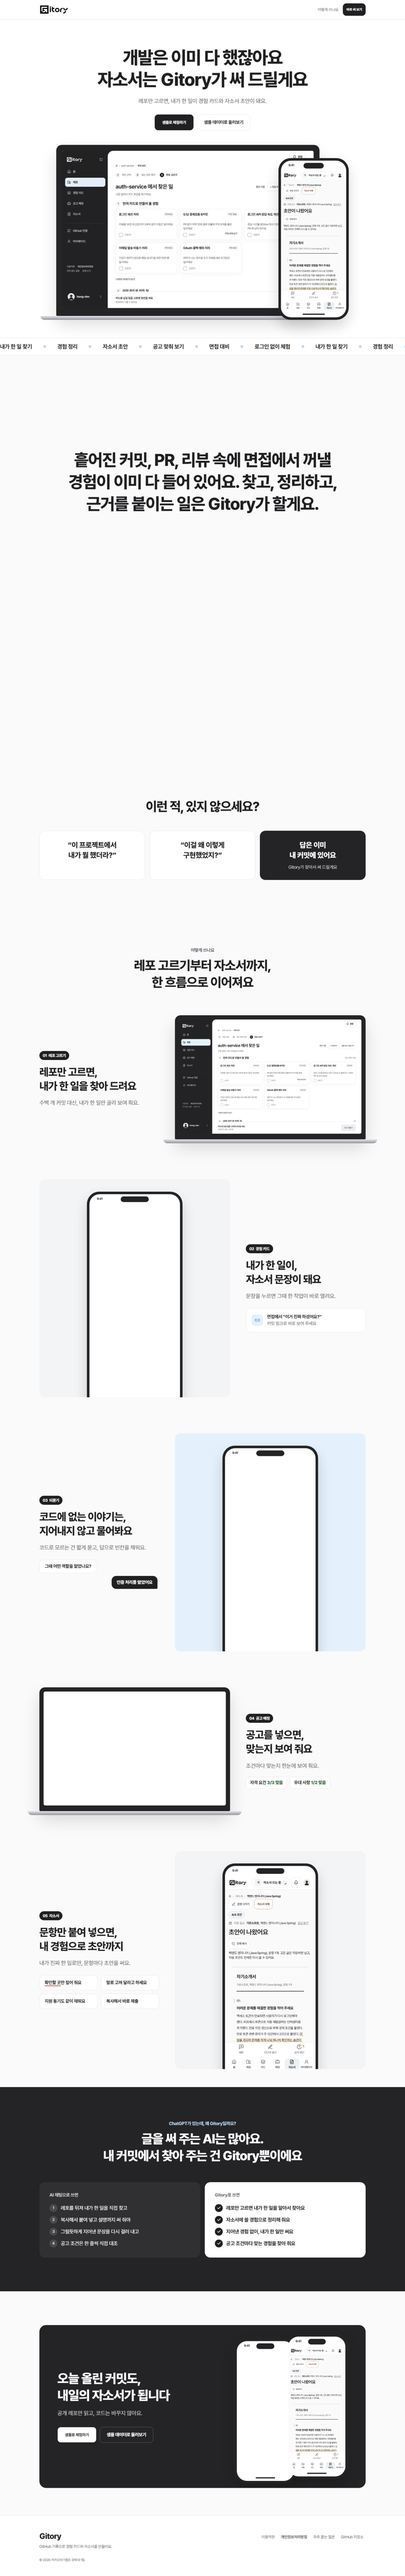
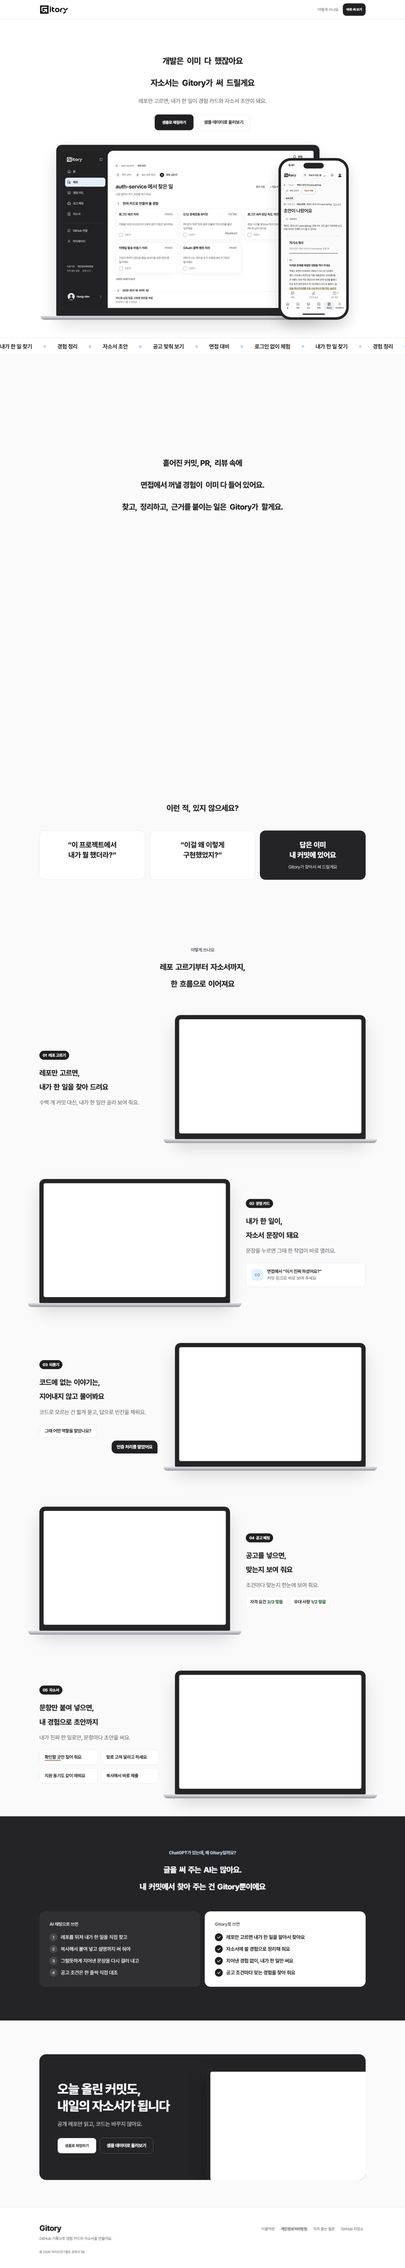
fix(frontend): 채워지는 문장을 세 줄로 나누고 01~05와 시작 권유를 PC 화면으로 보여 줌
- 채워지는 문장은 PC 에서 세 줄로 고정하고, 구절이 차례로 채워지는 효과는 그대로 둠
- PC 우선 서비스라 경험 카드, 되묻기, 자소서 단계와 시작 권유를 휴대폰 대신 PC 화면(노트북 틀)으로 바꿈
- 시작 권유는 겹친 폰 두 대 대신 오른쪽 아래로 걸친 PC 홈 화면, 글 칸을 넓혀 제목이 세 줄로 꺾이지 않게 함
- 쓰지 않는 휴대폰 캡처 3장 삭제, PC 되묻기와 홈 캡처 추가

diff --git a/frontend/src/features/auth/landing/Sections.tsx b/frontend/src/features/auth/landing/Sections.tsx
@@ -2,7 +2,7 @@ import type { ReactNode } from 'react';
 import { Link } from 'react-router-dom';
 import { Check, Link2 } from 'lucide-react';
 import { LEGAL } from '@/lib/legal';
-import { Laptop, Phone, Split } from './Shots';
+import { Laptop, Split } from './Shots';
 
 const FLOW = ['내가 한 일 찾기', '경험 정리', '자소서 초안', '공고 맞춰 보기', '면접 대비', '로그인 없이 체험'];
 
@@ -20,7 +20,8 @@ export function FlowStrip() {
   );
 }
 
-const INK = ['흩어진 커밋, PR, 리뷰 속에', '면접에서 꺼낼 경험이', '이미 다 들어 있어요.', '찾고,', '정리하고,', '근거를 붙이는 일은', 'Gitory가', '할게요.'];
+/** 세 줄로 나눠 보여 주고, 줄 안의 구절이 스크롤에 맞춰 차례로 채워진다 */
+const INK = [['흩어진 커밋, PR,', '리뷰 속에'], ['면접에서 꺼낼 경험이', '이미 다 들어 있어요.'], ['찾고,', '정리하고,', '근거를 붙이는 일은', 'Gitory가', '할게요.']];
 
 /** 스크롤하면 회색 글자가 한 구절씩 검게 채워지는 문장 */
 export function InkStatement() {
@@ -28,7 +29,11 @@ export function InkStatement() {
     <section className="lp-ink" data-ink="">
       <div className="lp-ink__stage">
         <p className="lp-ink__text">
-          {INK.map((t, i) => <span key={i}>{i > 0 && ' '}<span data-ink-part="">{t}</span></span>)}
+          {INK.map((line, li) => (
+            <span key={li} className="lp-ink__line">
+              {line.map((t, i) => <span key={i}>{i > 0 && ' '}<span data-ink-part="">{t}</span></span>)}
+            </span>
+          ))}
         </p>
       </div>
     </section>
@@ -82,7 +87,7 @@ export function Steps() {
         media={<Laptop name="board-d" alt="경험 후보를 고르는 화면" />} />
       <Step no="02" label="경험 카드" title={['내가 한 일이,', '자소서 문장이 돼요']} flip
         body="문장을 누르면 그때 한 작업이 바로 열려요."
-        media={<div className="lp-pane"><Phone name="card-m" alt="STAR 경험 카드 화면" /></div>}>
+        media={<Laptop name="card-d" alt="근거 커밋이 붙은 STAR 경험 카드 화면" />}>
         <div className="lp-callout" data-reveal="">
           <span className="lp-callout__icon" aria-hidden="true"><Link2 size={20} /></span>
           <p>면접에서 “이거 진짜 하셨어요?”<br /><span>커밋 링크로 바로 보여 주세요</span></p>
@@ -90,7 +95,7 @@ export function Steps() {
       </Step>
       <Step no="03" label="되묻기" title={['코드에 없는 이야기는,', '지어내지 않고 물어봐요']}
         body="코드로 모르는 건 짧게 묻고, 답으로 빈칸을 채워요."
-        media={<div className="lp-pane lp-pane--accent"><Phone name="interview-m" alt="되묻기 답변 화면" /></div>}>
+        media={<Laptop name="interview-d" alt="빈칸을 질문으로 채우는 답변하기 화면" />}>
         <div className="lp-chat" data-reveal="">
           <p className="lp-chat__ask">그때 어떤 역할을 맡았나요?</p>
           <p className="lp-chat__answer">인증 처리를 맡았어요</p>
@@ -106,7 +111,7 @@ export function Steps() {
       </Step>
       <Step no="05" label="자소서" title={['문항만 붙여 넣으면,', '내 경험으로 초안까지']}
         body="내가 진짜 한 일로만, 문항마다 초안을 써요."
-        media={<div className="lp-pane"><Phone name="cl-m" alt="자소서 초안 화면" /></div>}>
+        media={<Laptop name="cl-d" alt="문항별 자소서 초안 화면" />}>
         <ul className="lp-grid2" data-reveal="">
           <li><span className="lp-mark">확인할 곳</span>만 짚어 줘요</li>
           <li>말로 고쳐 달라고 하세요</li>
@@ -154,9 +159,8 @@ export function Closing({ actions }: { actions: ReactNode }) {
             <p className="lp-body">공개 레포만 읽고, 코드는 바꾸지 않아요.</p>
             <div className="lp-actions">{actions}</div>
           </div>
-          <div className="lp-closing__phones" aria-hidden="true">
-            <Phone name="card-m" alt="" className="lp-phone--back" />
-            <Phone name="cl-m" alt="" />
+          <div className="lp-closing__media" aria-hidden="true">
+            <Laptop name="home-d" alt="" />
           </div>
         </div>
       </div>

diff --git a/frontend/src/styles/landing-scroll.css b/frontend/src/styles/landing-scroll.css
@@ -60,7 +60,8 @@
 /* 채워지는 문장: PC 는 화면에 잠깐 머물고, 휴대폰은 지나가며 채운다 */
 .lp-ink { position: relative; height: 160vh; }
 .lp-ink__stage { position: sticky; top: 0; height: 100vh; display: flex; align-items: center; padding-inline: 20px; }
-.lp-ink__text { max-width: 1100px; margin: 0 auto; text-align: center; text-wrap: balance; font-size: clamp(30px, 5.4vw, 60px); line-height: 1.3; font-weight: var(--weight-heavy); letter-spacing: -.035em; }
+.lp-ink__text { max-width: 1200px; margin: 0 auto; text-align: center; font-size: clamp(28px, 4.4vw, 60px); line-height: 1.3; font-weight: var(--weight-heavy); letter-spacing: -.035em; }
+.lp-ink__line { display: block; }
 .lp[data-motion="on"] [data-ink-part] { color: color-mix(in srgb, var(--text-primary) 20%, transparent); transition: color .35s ease-out; }
 .lp[data-motion="on"] [data-ink-part][data-inked] { color: var(--text-primary); }
 
@@ -120,15 +121,15 @@
 /* 시작 권유 */
 .lp-closing { padding-top: clamp(80px, 10vw, 120px); padding-bottom: clamp(64px, 8vw, 96px); }
 .lp-closing__box { display: flex; flex-wrap: wrap; align-items: center; overflow: hidden; border-radius: 24px; background: var(--bg-feature); color: var(--text-on-feature); }
-.lp-closing__copy { flex: 1 1 420px; min-width: 0; padding: clamp(40px, 5vw, 64px); }
+.lp-closing__copy { flex: 1.2 1 440px; min-width: 0; padding: clamp(40px, 5vw, 64px); }
 .lp-closing .lp-h2 { margin: 0; }
 .lp-closing .lp-body { color: var(--text-on-feature-muted); }
 .lp-closing .lp-actions { justify-content: flex-start; }
 .lp-closing .lp-actions .btn { background: var(--bg-surface); color: var(--text-primary); }
 .lp-closing .lp-actions .sample-link__btn { background: transparent; color: var(--text-on-feature); border-color: color-mix(in srgb, var(--text-on-feature) 30%, transparent); }
-.lp-closing__phones { flex: 1 1 320px; min-width: 0; display: flex; justify-content: center; align-items: center; padding: 32px 24px; }
-.lp-closing__phones .lp-phone { width: 46%; max-width: 230px; }
-.lp-closing__phones .lp-phone--back { margin-right: -8%; transform: translateY(16px); }
+.lp-closing__media { flex: 1.1 1 440px; min-width: 0; align-self: flex-end; padding: 48px 0 0 8px; }
+.lp-closing__media .lp-laptop { margin-right: -14%; margin-bottom: -6%; }
+.lp-closing__media .lp-laptop__lid { box-shadow: 0 30px 60px rgba(0, 0, 0, .35); }
 
 /* 푸터 */
 .lp-footer { border-top: 1px solid var(--border-default); background: var(--bg-surface); }
@@ -171,7 +172,7 @@
   .lp .lp-actions { flex-direction: column; align-items: stretch; width: 100%; }
   .lp .lp-actions .btn, .lp .lp-actions .sample-link__btn { width: 100%; justify-content: center; }
   .lp-top__link { display: none; }
-  .lp-closing__phones { display: none; }
+  .lp-closing__media { display: none; }
 }
 @media (prefers-reduced-motion: reduce) {
   .lp-hword, .lp-hero__stage, .lp-strip__track { animation: none; }

diff --git a/frontend/docs/2026-11-11-LANDING_SCROLL.md b/frontend/docs/2026-11-11-LANDING_SCROLL.md
@@ -7,9 +7,9 @@
 
 1. **히어로**(가운데 정렬): "개발은 이미 다 했잖아요 / 자소서는 Gitory가 써 드릴게요". 노트북 틀 안에서 실제 화면 시연 영상(16초, 후보 고르기 → 경험 카드 → 공고 → 자소서)이 반복되고 폰 화면이 겹친다. 휴대폰 폭에서는 노트북을 빼고 폰 하나만 크게.
 2. **흐르는 띠**: 내가 한 일 찾기, 경험 정리, 자소서 초안, 공고 맞춰 보기, 면접 대비, 로그인 없이 체험.
-3. **채워지는 문장**(가운데 정렬): 스크롤한 만큼 회색 구절이 검게 채워진다. PC는 160vh 동안 화면에 머물고(예전 시안 220vh는 막힌 느낌이라 줄임), 휴대폰은 고정 없이 지나가며 채운다.
+3. **채워지는 문장**(가운데 정렬, PC 세 줄): 스크롤한 만큼 회색 구절이 검게 채워진다. PC는 160vh 동안 화면에 머물고(예전 시안 220vh는 막힌 느낌이라 줄임), 휴대폰은 고정 없이 지나가며 채운다.
 4. **공감**: "이 프로젝트에서 내가 뭘 했더라?", "이걸 왜 이렇게 구현했었지?", "답은 이미 내 커밋에 있어요".
-5. **01~05**: 레포 고르기, 경험 카드, 되묻기, 공고 매칭, 자소서. 설명은 한 문장씩.
+5. **01~05**: 레포 고르기, 경험 카드, 되묻기, 공고 매칭, 자소서. 설명은 한 문장씩. PC 우선 서비스라 다섯 단계 모두 PC 화면(노트북 틀)으로 보여 준다.
 6. **AI 채팅과 다른 점**: "AI 채팅으로 쓰면"(직접 찾고 붙여 넣고 걸러 내고 대조) 대 "Gitory로 쓰면".
 7. **시작 권유**와 **푸터**(롤백 전 판과 같은 구성: 소개 한 줄, 이용약관, 개인정보처리방침, 자주 묻는 질문, GitHub 저장소).
 
@@ -28,7 +28,7 @@
 ## 테마, 자산
 
 - 첫 화면은 다크 테마를 켜 둔 사람에게도 밝은 테마로 보인다(첫 화면에 있는 동안 `data-theme` 을 떼고, 떠나면 되돌린다).
-- `public/landing/`: 샘플 데이터 화면 캡처(webp, 밝은 테마 8장), 시연 영상 `demo.mp4`(250KB)와 첫 장면 `demo-poster.webp`. 합계 약 0.7MB.
+- `public/landing/`: 샘플 데이터 화면 캡처(webp, PC 7장, 휴대폰 1장), 시연 영상 `demo.mp4`(250KB)와 첫 장면 `demo-poster.webp`. 합계 약 0.7MB.
 - 예전 히어로 예시(`LandingExample.tsx`)는 지웠다.
 
 ## 화면
